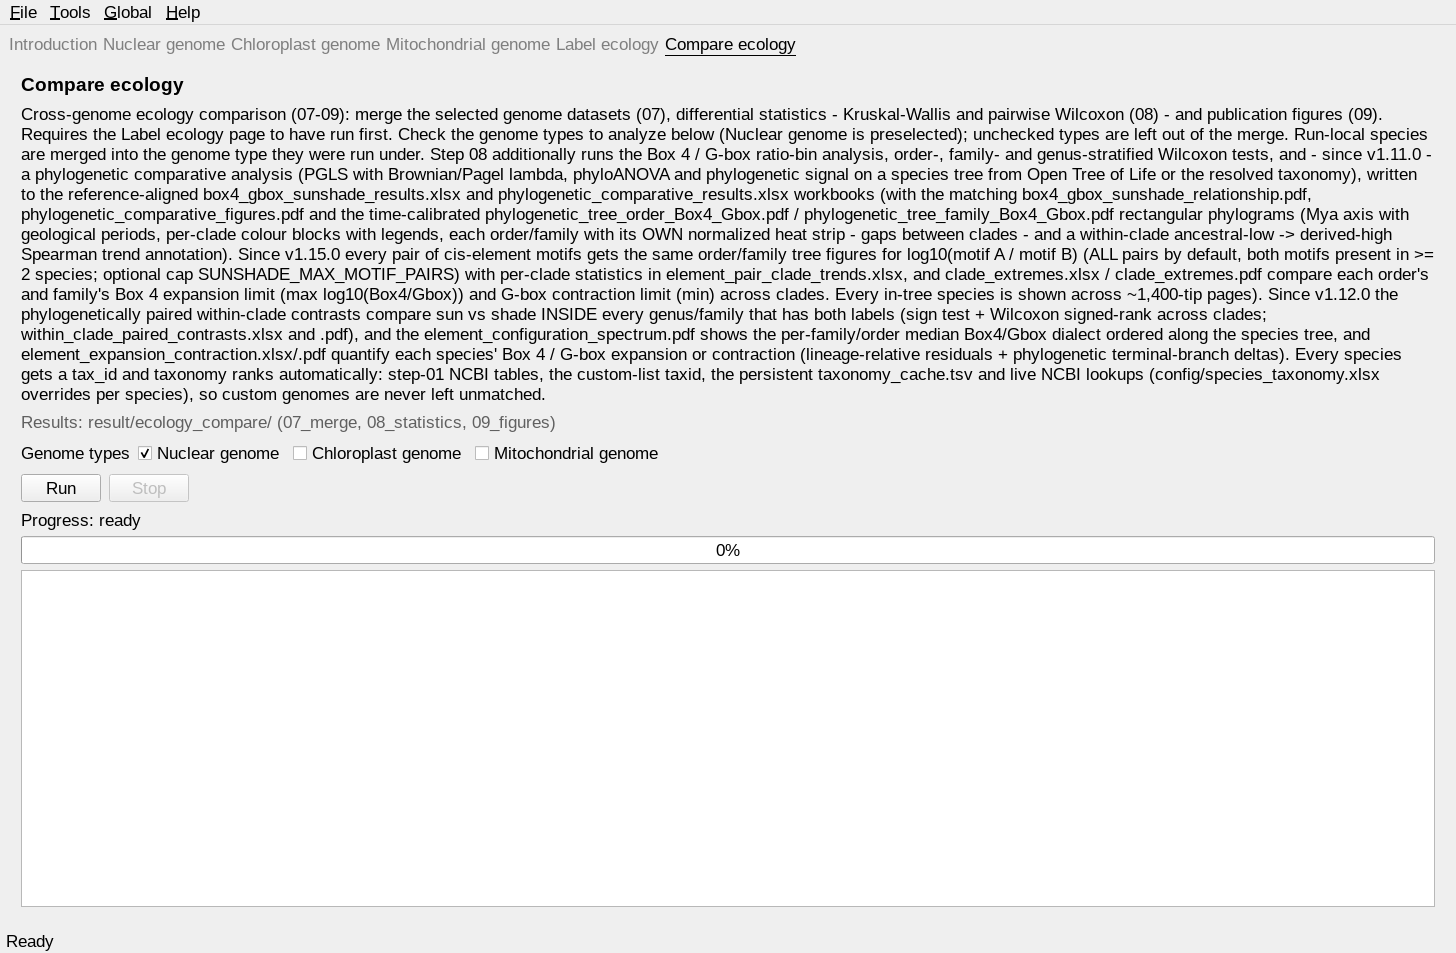
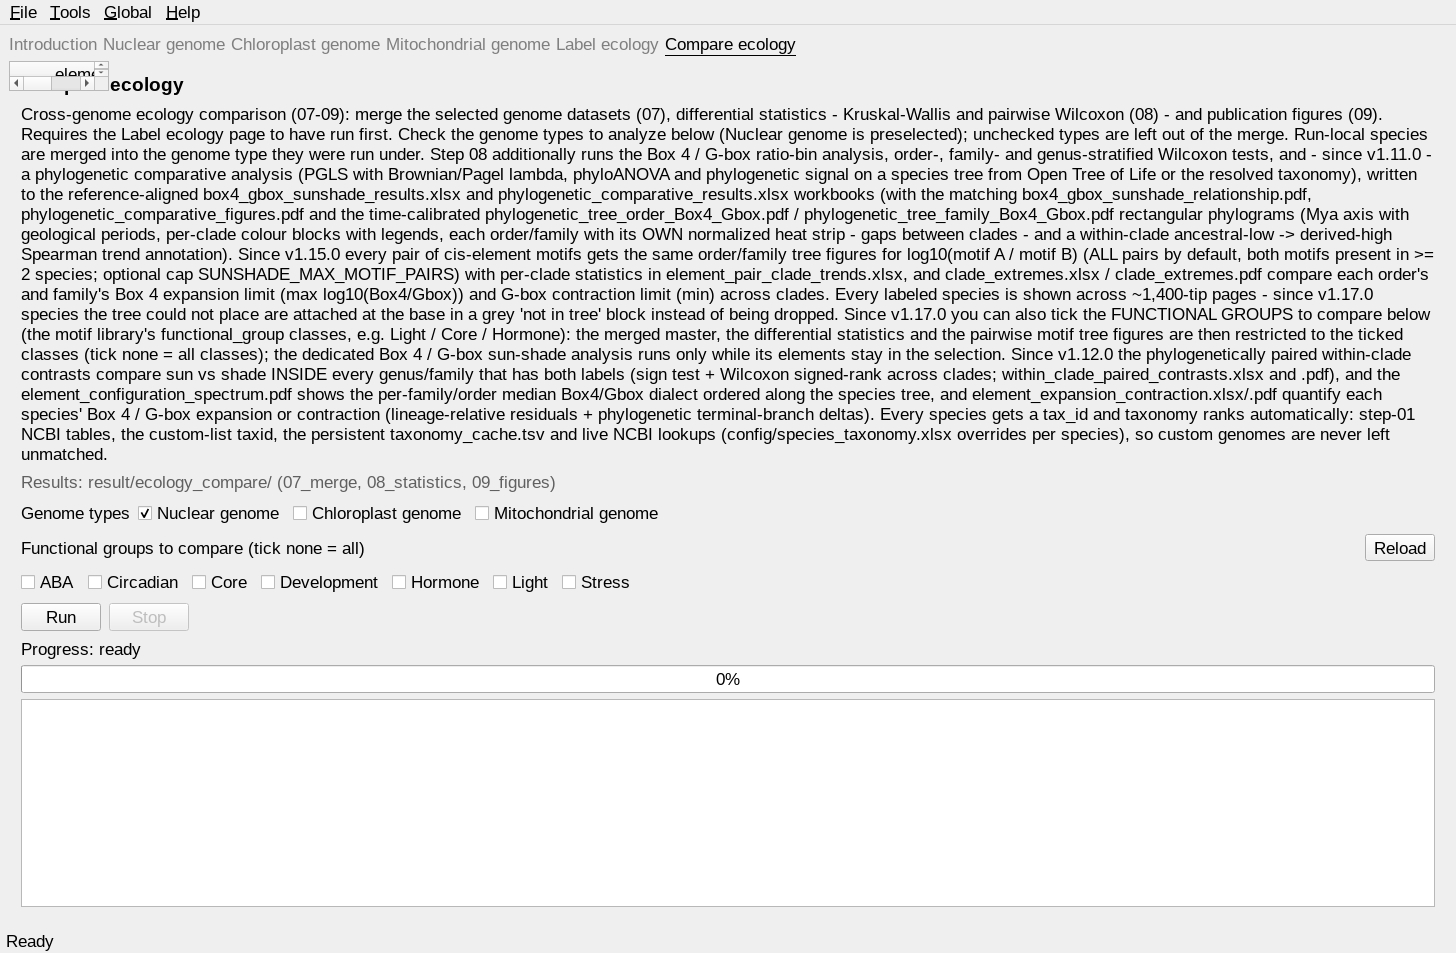
docs: v1.17.0 all-species tree display (not-in-tree grafting) and Compare ecology functional-group selection

diff --git a/docs/conf.py b/docs/conf.py
@@ -1,4 +1,4 @@
-# sunshadeCisseeker documentation build configuration.
+# sunshadeCisseeker documentation build configuration.
 #
 # Read the Docs theme (sphinx_rtd_theme): full-width layout, search box,
 # light/dark modes and a mobile-friendly hamburger navigation, with content
@@ -9,8 +9,8 @@ author = "sunshadeCisseeker developers"
 copyright = "2026, sunshadeCisseeker developers"
 
 # The short X.Y version and the full release version.
-version = "v1.16.0"
-release = "v1.16.0"
+version = "v1.17.0"
+release = "v1.17.0"
 
 extensions = [
     "sphinx.ext.autosectionlabel",

diff --git a/docs/content/Ecology comparison.rst b/docs/content/Ecology comparison.rst
@@ -44,6 +44,25 @@ so the density metric is unchanged), and a genome type whose only outputs
 are Run-local is still merged. Every staged species therefore joins the
 comparison inside its physical type instead of a separate group.
 
+Functional-group selection (v1.17.0)
+~~~~~~~~~~~~~~~~~~~~~~~~~~~~~~~~~~~~
+
+The Compare ecology page additionally offers **Functional groups**
+checkboxes, populated from the ``functional_group`` column of
+``config/cis_element_motif_library.xlsx`` (Light, Core, Hormone, Stress,
+ABA, Development, Circadian). Ticking one or more classes forwards
+``--ecology-groups=Light,Core`` to ``run_all.sh ecology`` (the
+``SUNSHADE_ECOLOGY_GROUPS`` environment variable is also accepted), and the
+merged master is restricted to the ticked classes — so the differential
+statistics, the volcano, and the pairwise motif-ratio tree figures all
+compare only the chosen cis-element classes. No tick = every class is
+compared (the previous behaviour). The species tree is built for **any**
+selection, so the pairwise tree figures keep working for every class; the
+dedicated Box 4 / G-box sun-shade analyses (reference-aligned workbook,
+comparative phylogenetics, BG tree figures, extremes, paired contrasts,
+expansion/contraction, spectrum) are skipped automatically whenever the
+selection does not contain the Box 4 / G-box elements.
+
 1. For each selected genome type, merge the per-species element counts
    (``Species_element_counts``) with the per-species **total promoter
    number** (from the step-05 summary workbook's ``Per_species`` sheet —
@@ -56,8 +75,9 @@ comparison inside its physical type instead of a separate group.
    and the three compartments are directly comparable.
 3. Join the ``sun`` / ``shade`` label from the Label
    ecology assignment (by genome type + species).
-4. Write the long-format ``Master_long`` table plus three auxiliary tables to
-   ``ecology_master_dataset.xlsx``.
+4. Restrict to the selected functional groups when a selection is active.
+5. Write the long-format ``Master_long`` table plus three auxiliary tables to
+   ``ecology_master_dataset.xlsx`` (the README sheet records the selection).
 
 Step 08 — differential statistics
 ---------------------------------
@@ -257,10 +277,15 @@ dimension — with white gaps between the clade blocks) and a **within-clade
 Spearman trend test** on every clade label (ancestral-low → derived-high
 hypothesis: rho between the species' position along the displayed clade
 block and its log10 ratio, ``*`` = P < 0.05; complete statistics in
-``.../clade_trend_tests_Box4_Gbox.tsv``). Every in-tree species is
-displayed: each genome type's tree is split into ~1,400-tip slices, one page
-per slice (the page height is computed from the tip count, so labels never
-overlap, and the margins keep everything inside the A4-width page).
+``.../clade_trend_tests_Box4_Gbox.tsv``). **Every labeled species is
+displayed**: each genome type's tree is split into ~1,400-tip slices, one
+page per slice (the page height is computed from the tip count, so labels
+never overlap, and the margins keep everything inside the A4-width page).
+Since v1.17.0 species that the published tree could not place (unresolved
+taxonomy ranks) are **attached at the root** and drawn at the base in their
+own grey ``not in tree`` block (no clade statistics or heat percentile,
+noted in the subtitle and caption), so no species is ever dropped from the
+figures.
 
 Pairwise motif-ratio trees (v1.15.0)
 ~~~~~~~~~~~~~~~~~~~~~~~~~~~~~~~~~~~~
@@ -276,7 +301,9 @@ pair and level). **All motif pairs are processed by default** (a pair is
 included when both motifs occur in at least 2 labeled species, so the
 ratio and its heat strip are defined); the optional environment variable
 ``SUNSHADE_MAX_MOTIF_PAIRS`` can still cap the run for very large motif
-libraries.
+libraries. When the Compare ecology functional-group selection is active,
+only pairs **inside the selected classes** are processed, and the species
+tree is built regardless, so the figures keep working for any selection.
 
 Clade extremes (v1.15.0)
 ~~~~~~~~~~~~~~~~~~~~~~~~

diff --git a/docs/content/Outputs.rst b/docs/content/Outputs.rst
@@ -38,7 +38,7 @@ Ecology comparison outputs
    * - ``result/ecology_compare/06_label_ecology/species_ecology_assignment.xlsx``
      - ``Assignment`` / ``Group_counts`` / ``Unlabeled`` label tables (single label source for 07–09)
    * - ``result/ecology_compare/07_merge/ecology_master_dataset.xlsx``
-     - ``Master_long`` / ``Species_summary`` / ``Element_species`` / ``Group_species_n``
+     - ``Master_long`` / ``Species_summary`` / ``Element_species`` / ``Group_species_n``; since v1.17.0 the README sheet records the ``functional_groups`` selection (``all (no selection)`` when nothing is ticked) and the master is restricted to the selected classes
    * - ``result/ecology_compare/08_statistics/ecology_differential_results.xlsx``
      - ``Kruskal_Wallis`` / ``Pairwise_Wilcoxon`` / ``Group_summary`` plus the Box 4 / G-box ratio analysis (``Box4_Gbox_species`` / ``Box4_Gbox_kruskal`` / ``Box4_Gbox_tests`` / ``Box4_Gbox_groups``), the v1.5.0 ratio-bin analysis (``Box4_Gbox_bin_by_group`` / ``Box4_Gbox_bin_tests`` / ``Box4_Gbox_bin_enrichment`` / ``Box4_Gbox_concentrated_bins`` / ``Box4_Gbox_relationship_tests`` / ``Box4_Gbox_stratified_tests`` / ``Box4_Gbox_fixed_effect_models``) and the publication-ready supplementary tables (``Publication_*``)
    * - ``result/ecology_compare/08_statistics/ecology_differential_volcano.pdf``
@@ -58,7 +58,7 @@ Ecology comparison outputs
    * - ``result/ecology_compare/09_figures/phylogenetic_comparative_figures.pdf`` (v1.11.0)
      - portrait A4 page: (a) in-tree species per genome type and light habitat, (b) the log10 Box4/G-box ratio density per genome type, (c) ratio per habitat with phyloANOVA P, (d) PGLS coefficient forest, (e) phylogenetic signal, (f) Box 4 vs G-box count scatter, (g) delta-AICc model comparison; every panel is drawn as pure vector ggplot2 geometry on a flat 2-column grid
    * - ``result/ecology_compare/09_figures/phylogenetic_tree_order_Box4_Gbox.pdf`` (v1.13.0, v1.14.0 time-calibrated, v1.15.0 renamed)
-     - rectangular (orthogonal) phylogram per order on a rank-calibrated Mya time axis (present at the right, basal lineages at the bottom, geological periods as background bands); every in-tree species appears across ~1,400-tip pages; per-clade colour blocks with an adaptive complete legend (orders below 3 tips merge into one grey bucket); each order has its OWN heat scale (within-clade percentile of log10(Box 4 / G-box), white gaps between the clade blocks) and its clade label carries the within-clade Spearman trend test of the ancestral-low → derived-high hypothesis
+     - rectangular (orthogonal) phylogram per order on a rank-calibrated Mya time axis (present at the right, basal lineages at the bottom, geological periods as background bands); every labeled species appears across ~1,400-tip pages — since v1.17.0 species outside the published tree are attached at the root and drawn at the base in a grey "not in tree" block (noted in the subtitle/caption); per-clade colour blocks with an adaptive complete legend (orders below 3 tips merge into one grey bucket); each order has its OWN heat scale (within-clade percentile of log10(Box 4 / G-box), white gaps between the clade blocks) and its clade label carries the within-clade Spearman trend test of the ancestral-low → derived-high hypothesis
    * - ``result/ecology_compare/09_figures/phylogenetic_tree_family_Box4_Gbox.pdf`` (v1.13.0, v1.14.0 time-calibrated, v1.15.0 renamed)
      - the same time-calibrated rectangular tree coloured by family (families below 5 tips merge into one grey bucket)
    * - ``result/ecology_compare/09_figures/clade_trend_tests_Box4_Gbox.tsv`` (v1.14.0, v1.15.0 renamed)

diff --git a/docs/content/Changelog.rst b/docs/content/Changelog.rst
@@ -1,6 +1,37 @@
 Changelog
 =========
 
+1.17.0 — all species in the tree figures + functional-group selection
+----------------------------------------------------------------------
+
+* **Every labeled species is now displayed** in the time-calibrated tree
+  figures (``phylogenetic_tree_order_Box4_Gbox.pdf``,
+  ``phylogenetic_tree_family_Box4_Gbox.pdf`` and every pairwise
+  ``phylogenetic_tree_<level>_<A>_vs_<B>.pdf``). Species that the published
+  phylogenetic tree could not place (unresolved taxonomy ranks) were
+  previously dropped from the figures; they are now **attached at the root
+  and shown at the base in their own grey "not in tree" block** (no clade
+  statistics or heat percentile), with the count noted in the subtitle and
+  caption. The species table behind the tree (08 ``Tree_species`` /
+  ``Species_annotated``) now covers every species of the merged master, not
+  only the ones carrying Box 4 / G-box rows.
+* The **Compare ecology page can now select which cis-element functional
+  classes to compare**: new ``Functional groups`` checkboxes (populated
+  from the ``functional_group`` column of
+  ``config/cis_element_motif_library.xlsx`` — e.g. Light, Core, Hormone,
+  Stress, ABA, Development, Circadian) are forwarded to run_all.sh as
+  ``--ecology-groups=Light,Core`` (``SUNSHADE_ECOLOGY_GROUPS`` env variable
+  is also supported). The merged master, the Kruskal-Wallis / pairwise
+  statistics and the pairwise motif tree figures are then restricted to the
+  ticked classes; no tick = all classes. The species tree is still built
+  for ANY selection (so the pairwise tree figures keep working), while the
+  dedicated Box 4 / G-box sun-shade analyses and figures are skipped
+  automatically when their elements are out of scope.
+* The ecology end-to-end suite now covers the grafted "not in tree"
+  display, the ``--ecology-groups=Light`` restriction (only Box 4 / G-box
+  merged and compared) and the ``--ecology-groups=Core`` restriction (tree
+  preserved, zero-count reference table, Box 4 / G-box figures gated).
+
 1.16.0 — order-of-magnitude faster pairwise motif-ratio trees
 ---------------------------------------------------------------
 

diff --git a/docs/content/GUI.rst b/docs/content/GUI.rst
@@ -37,7 +37,7 @@ There are exactly six sliding pages, in this order:
    * - **Label ecology**
      - assigns the sun/shade labels to the merged datasets (cross-genome step 06), one label sheet per genome type; checkboxes select the types to label
    * - **Compare ecology**
-     - runs the cross-genome ecology comparison (steps 07-09; requires Label ecology first); checkboxes select the genome types to merge
+     - runs the cross-genome ecology comparison (steps 07-09; requires Label ecology first); checkboxes select the genome types to merge and, since v1.17.0, the cis-element functional groups to compare (Light / Core / Hormone / ... from the motif library's functional_group column)
 
 Each analysis page shows the step description, the result directory hint and
 a live log panel. The three genome pages additionally offer an **NCBI API key
@@ -55,7 +55,15 @@ checked): they become the ``--label-types`` / ``--ecology-types`` flags of
 the respective runs, so both steps analyze exactly the selected genome
 types. The three checkboxes are the three physical types only: a species
 analyzed by *Tools → Run local* joins the genome type it was run under
-(see below), so there is no separate pseudo-type to select. A screenshot
+(see below), so there is no separate pseudo-type to select. The **Compare
+ecology** page additionally shows, since v1.17.0, a **Functional groups**
+row of checkboxes (populated lazily from the motif library's
+``functional_group`` column; a Reload button re-reads the library): ticked
+classes become ``--ecology-groups=<comma list>`` and restrict the merged
+master, the differential statistics and the pairwise motif tree figures to
+those classes — tick none = all classes. When the library cannot be read
+through the R helper, a plain comma-separated text field takes the
+checkboxes' place. A screenshot
 of every page and popup, with explanations, is on the :doc:`Screenshots`
 page.
 

diff --git a/docs/content/Screenshots.rst b/docs/content/Screenshots.rst
@@ -91,10 +91,19 @@ editors and the remaining functions.
    log10(A/B) since v1.15.0, plus the clade-extremes comparison
    ``clade_extremes.pdf``), the
    within-clade paired contrast waterfalls and the expansion/contraction
-   figures. The genome-type checkboxes
+   figures. Every labeled species is drawn in the tree figures — since
+   v1.17.0 species outside the published tree are attached at the base in a
+   grey "not in tree" block. The genome-type checkboxes
    match the Label ecology page (only **Nuclear genome** starts checked):
    unchecked types are left out of the merge, and the Tools → Run local
-   species join the genome type they were run under.
+   species join the genome type they were run under. Since v1.17.0 a
+   **Functional groups** row of checkboxes (loaded from the motif library's
+   ``functional_group`` column; Reload re-reads the library) selects which
+   cis-element classes the comparison covers: the merged master, the
+   differential statistics and the pairwise motif tree figures are then
+   restricted to the ticked classes (tick none = all classes, and the
+   Box 4 / G-box reference analyses run only while their elements stay in
+   the selection).
    It requires the Label ecology page to have run first. Results land under
    ``result/ecology_compare/``.
 
